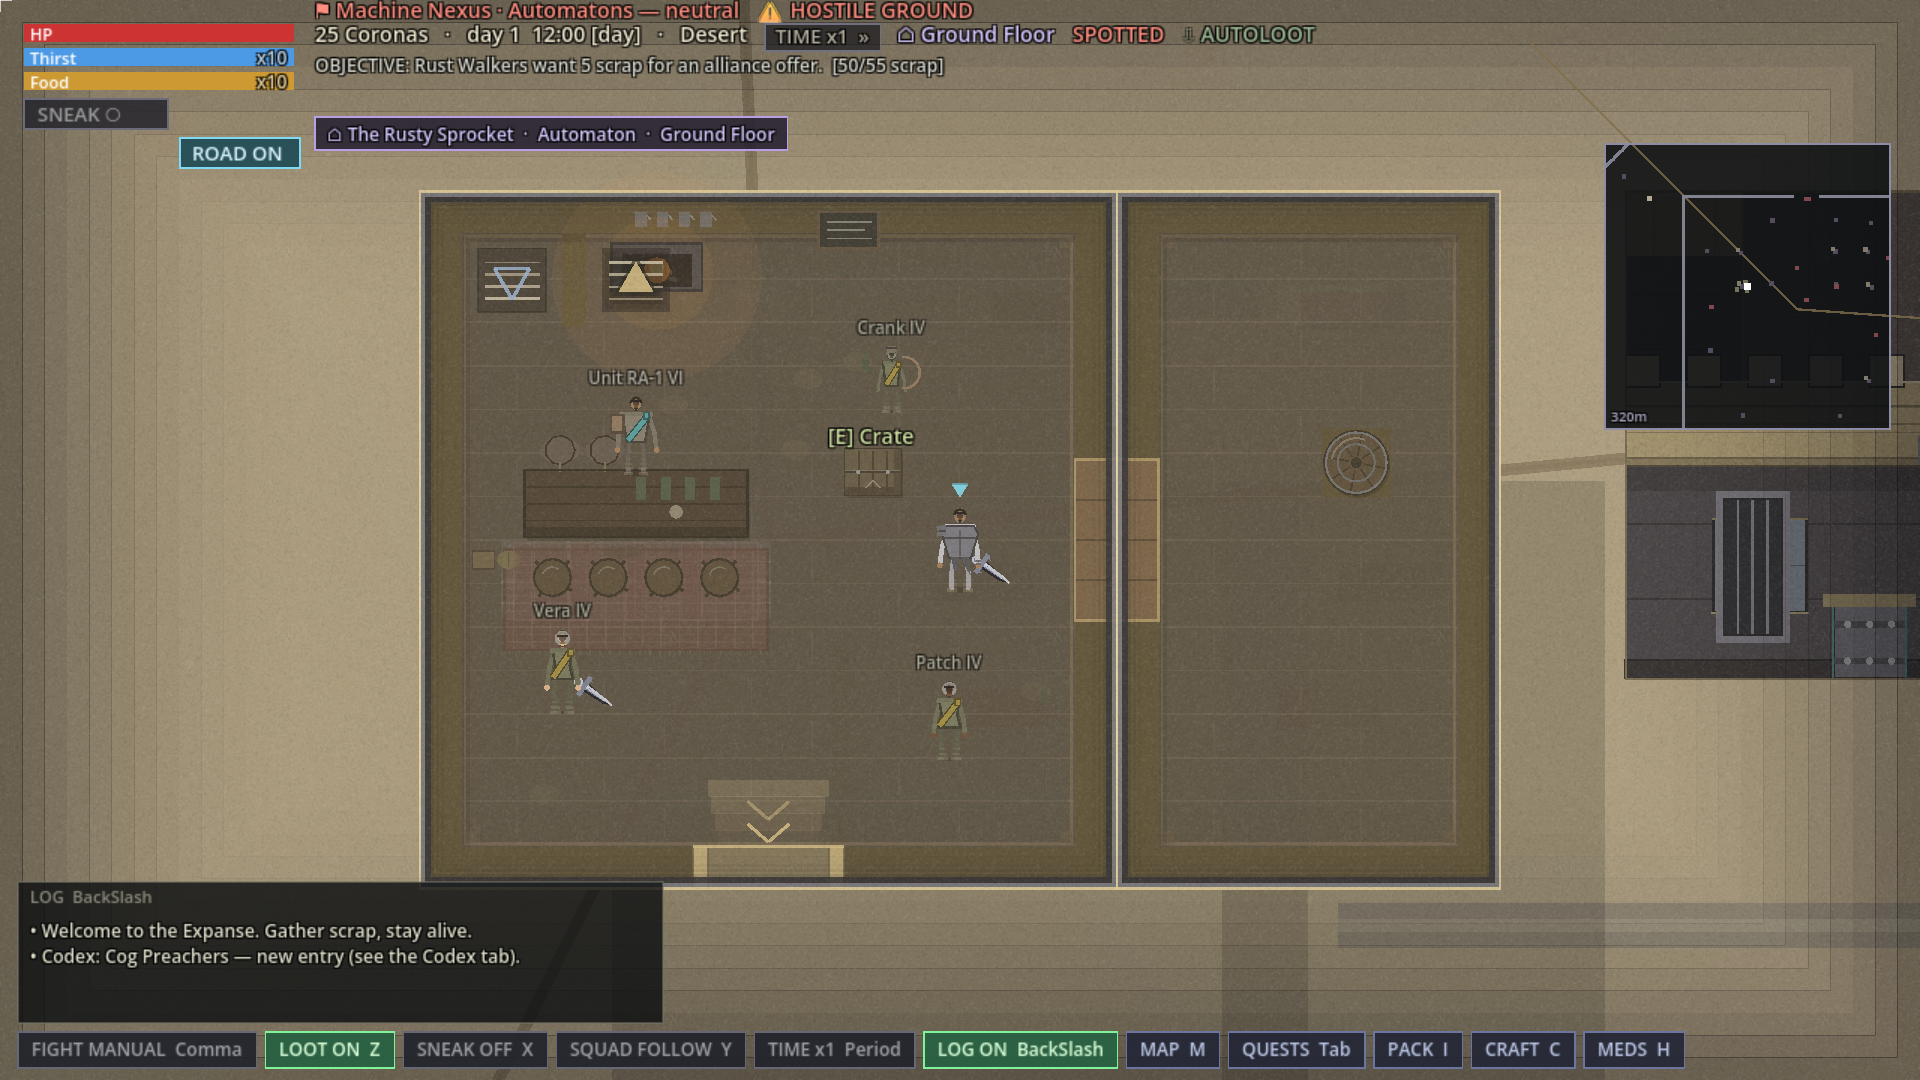
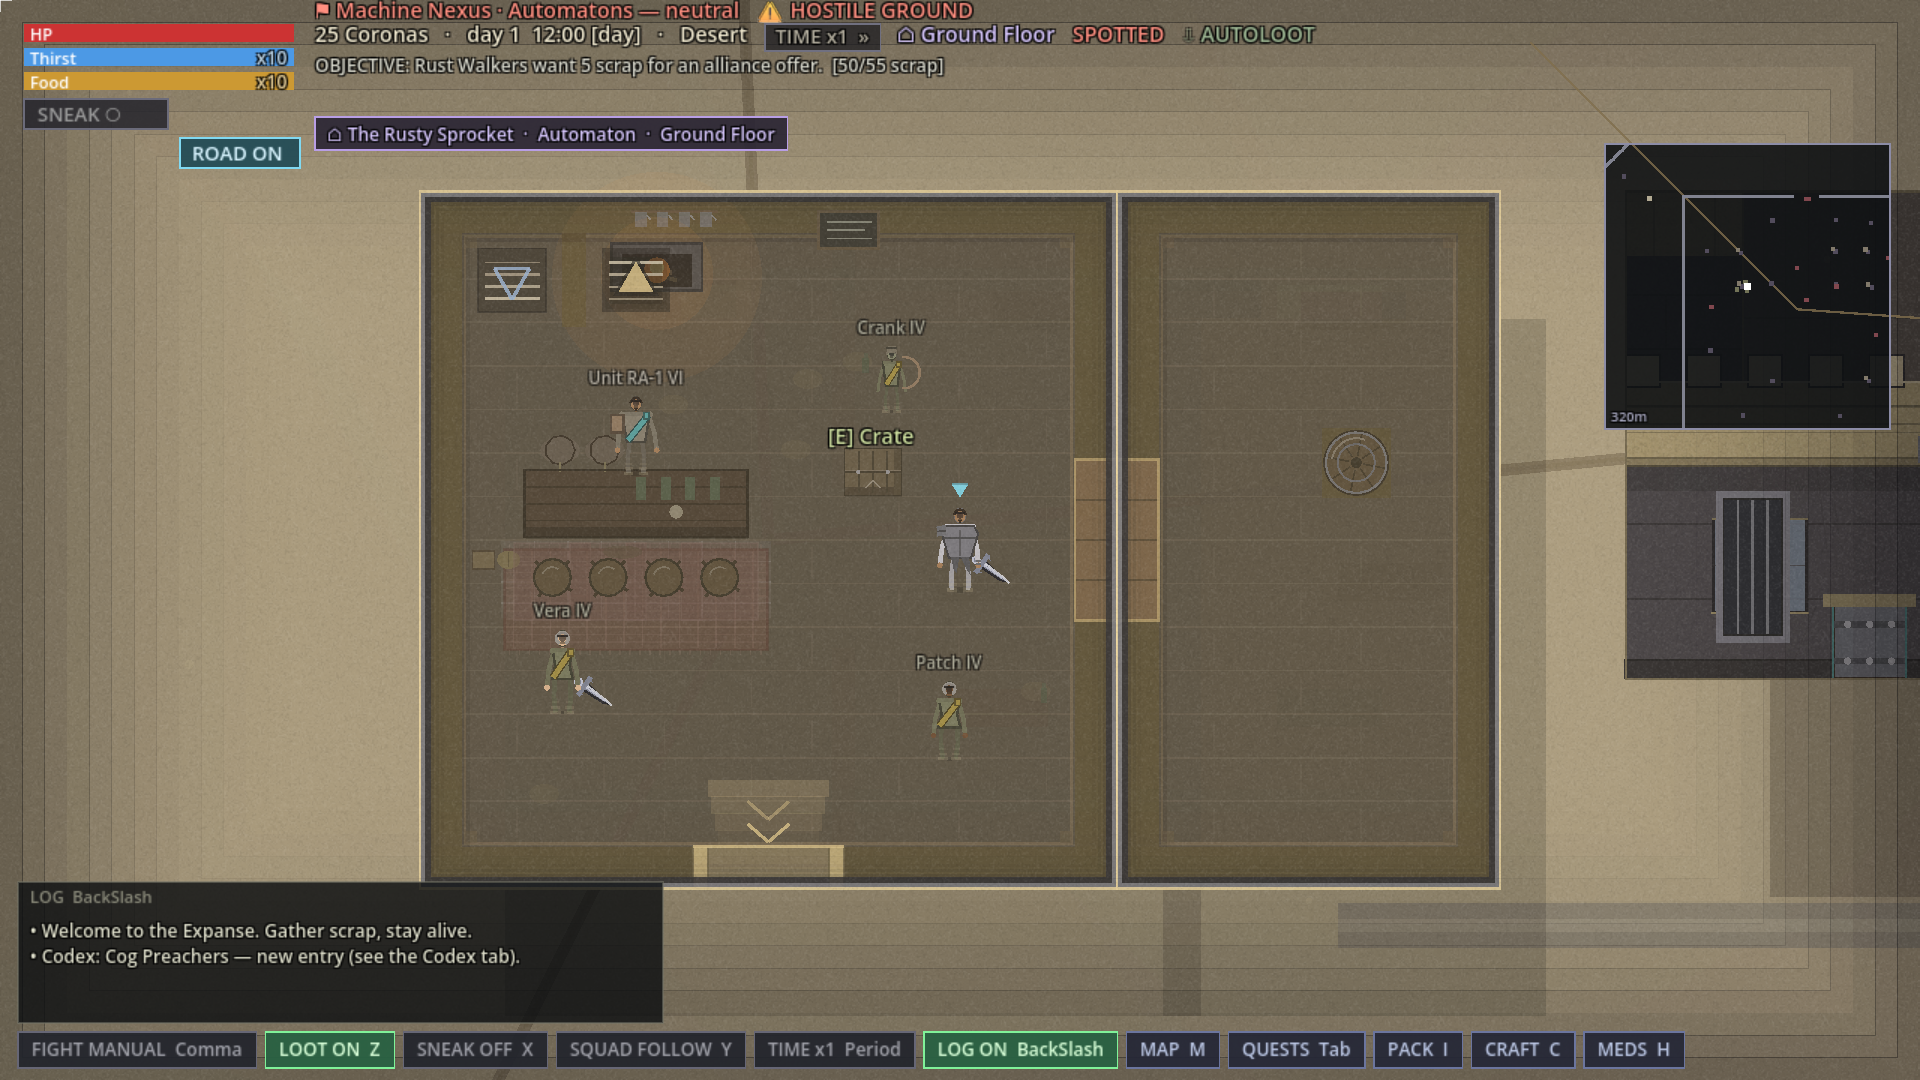
site: playtest-14f13 (19ad99f) — nine re-cut frames, ?v=18, notes section
Eleven screenshots taken from the commit and checked against its blobs.
Nine moved since 14f12 — SH1 (dc55cf7) re-cut them when shadow length
started tracking the hour — so the cache-buster goes to ?v=18; only 02
and 03 are byte-identical. Download block, stamp and sha256s move to
14f13, 14f12 drops to the history list, and notes.html gains the 14f13
section. Captions unchanged.

Claude-Session: https://claude.ai/code/session_018H1sn7GGjZwJmtfg9LhDNg

Changed region(s): [[0.7812, 0.275, 0.8438, 0.7944], [0.9062, 0.6111, 0.9688, 0.8556], [0.625, 0.9167, 0.6875, 1.0]]

diff --git a/index.html b/index.html
@@ -246,7 +246,7 @@
 <section class="wrap" aria-labelledby="shots-h">
   <h2 id="shots-h">Screenshots</h2>
   <div class="shot-frame">
-    <img id="shot" src="screenshots/01.png?v=17" width="1920" height="1080"
+    <img id="shot" src="screenshots/01.png?v=18" width="1920" height="1080"
          alt="Gameplay screenshot from Eclipsis: The Shattered Expanse">
     <button class="navbtn prev" type="button" id="prev" aria-label="Previous screenshot">&#8249;</button>
     <button class="navbtn next" type="button" id="next" aria-label="Next screenshot">&#8250;</button>
@@ -299,22 +299,22 @@
 <section class="wrap" aria-labelledby="dl-h">
   <h2 id="dl-h">Download the playtest build</h2>
   <div class="dl-grid">
-    <a class="btn" href="https://github.com/dlarseninclusive/eclipsis-playtest/releases/download/playtest-14f12/eclipsis_playtest-14f12_windows_x86_64.zip">
+    <a class="btn" href="https://github.com/dlarseninclusive/eclipsis-playtest/releases/download/playtest-14f13/eclipsis_playtest-14f13_windows_x86_64.zip">
       <span class="os">Windows</span>
       <span class="meta">64-bit &middot; .zip</span>
     </a>
-    <a class="btn" href="https://github.com/dlarseninclusive/eclipsis-playtest/releases/download/playtest-14f12/eclipsis_playtest-14f12_macos_universal.zip">
+    <a class="btn" href="https://github.com/dlarseninclusive/eclipsis-playtest/releases/download/playtest-14f13/eclipsis_playtest-14f13_macos_universal.zip">
       <span class="os">macOS</span>
       <span class="meta">Apple Silicon &amp; Intel &middot; .zip</span>
     </a>
-    <a class="btn" href="https://github.com/dlarseninclusive/eclipsis-playtest/releases/download/playtest-14f12/eclipsis_playtest-14f12_linux_x86_64.tar.gz">
+    <a class="btn" href="https://github.com/dlarseninclusive/eclipsis-playtest/releases/download/playtest-14f13/eclipsis_playtest-14f13_linux_x86_64.tar.gz">
       <span class="os">Linux</span>
       <span class="meta">x86_64 &middot; .tar.gz</span>
     </a>
   </div>
   <p style="margin:0 0 18px;font-size:1.05em"><strong>Field reports:</strong> <a href="playtests/playtest-14f11.html">Playtest 14f11</a> &middot; <a href="playtests/playtest-14f10.html">Playtest 14f10</a> &middot; <a href="playtests/playtest-14f9.html">Playtest 14f9</a> &middot; <a href="playtests/playtest-14f8.html">Playtest 14f8</a> &middot; <a href="playtests/playtest-14f1.html">Playtest 14f1</a> &middot; <a href="playtests/playtest-14.html">Playtest 14</a> &middot; <a href="playtests/playtest-13.html">Playtest 13</a> &middot; <a href="playtests/playtest-12.html">Playtest 12</a> &middot; <a href="playtests/playtest-11.html">Playtest 11</a><br>These are a playtester&rsquo;s field reports, written as a lab notebook for the team and published unedited.<br><strong>New tester?</strong> Start with <a href="playtest.html">the playtest procedure</a> &mdash; what to try and how to report. Full history of changes: <a href="notes.html">release notes</a>. Bugs and build alerts live on <a href="https://github.com/dlarseninclusive/eclipsis-playtest">the GitHub page</a> &mdash; <a href="https://github.com/dlarseninclusive/eclipsis-playtest/issues/new/choose">submit a ticket</a>.</p>
-  <p class="note"><strong>New in Playtest 14f12 &mdash; nobody walks through a wall:</strong> Playtest 14f11 put a face on the people; this one dresses them for it, stops them walking through walls, and opens the gaol from every door. <strong>Dave saw NPCs cross town walls, and it is fixed.</strong> The tester measured it first: thirteen bodies through a curtain wall in five game minutes. The movement code was cleared by count &mdash; no path ever walked a clear body into a wall. Bodies were being <em>placed</em> inside walls, and the anti-trap escape then walked them out through the far side. Every placement now resolves to clear ground and the escape walks toward the nearest way out, so patrols and travellers take the gate; the probe over 1500 ticks reads zero on every count. Not fixed here: three shopkeepers stand in a wall brick at world build because their building was raised overlapping the ring &mdash; they never move and never cross. <strong>Hoods belong to who wears them.</strong> The road hood is on the armorer&rsquo;s shelf for 12 credits, and buying one puts your own face under it. Scouts, outriders, the Eclipse Choir, the Penumbra and the road bandits wear hoods while their champions and heavies keep the steel &mdash; about one body in five, with the two cult capitals hooded to a man on purpose. Nineteen leaders have nineteen heads: bare-faced where you are meant to know them, hooded where you are not, crowned visors where the office is the point. <strong>The gaol opens from every door.</strong> Captured on the spot, delivered by a slaver, or starting in a cell all land you in a dressed gaol &mdash; barred cells, a rack under a lamp, the bench, two wardens, another prisoner. The &ldquo;bare gaol&rdquo; reported in 14f10 was a test staging its own camera and does not reproduce in play. There is a new start, <strong>Sentenced</strong>: a Corona Wardens cell, an eight-day term, a ransom of 32 credits, eighteen coins and one bandage. The custody card gets out of your way on any movement or answer key, and <kbd>Q</kbd> brings it back. The sign tells you how to say it: <code>Ashen Camp Gaol (&ldquo;jayl&rdquo;)</code>. <strong>Underneath</strong>, a body with no name was getting the same word every day as every other nameless body; the word an NPC calls you now comes off the same identity the crowd already uses for its face. <strong>Known and not fixed here:</strong> on the Sentenced start the Wardens levy their territory toll on you in their own cell; the floor row reads &ldquo;Ground Floor&rdquo; inside a cell; a slave collar files into the helm slot; long speaker names clip on the talk card. <strong>Your playtest 14 through 14f11 saves load</strong>; nothing here changes the shape of a save. <strong>Coming next:</strong> shadows that lengthen with the sun.</p>
-  <p class="version">Build <code>playtest-14f12 &middot; 90c3ea8</code> &middot; 2026-09-08 &middot; Windows, macOS &amp; Linux &middot; single executable, no installer, no launcher, no account &middot; <a href="notes.html">Full release notes</a><br>That same string is printed on the title screen and along the bottom of the game screen &mdash; quote it in a bug report.<br>sha256 &middot; windows.zip <code>cc02d6941c025e01687079ed85e3d699c4559564078fe34eb298ea6c6fcdbd85</code><br>&middot; macos.zip <code>64db042f9b1210c8c98e676bb51e77354d7dcb8a02680df4f0e9df8d465cef51</code><br>&middot; linux.tar.gz <code>8513e2dbc63ff63046c5d01020918ba1636b7ec1546d1971825f93b53e6bff5d</code></p>
+  <p class="note"><strong>New in Playtest 14f13 &mdash; the shadow follows the sun:</strong> A quiet cut. <strong>Every shadow&rsquo;s length now tracks the hour</strong> &mdash; longest at dawn and dusk, shortest at one o&rsquo;clock, with the direction unchanged. The length is capped by decision: a shadow must never come away from the building that throws it, so the largest drums sit on the cap in the morning rather than reaching past their own walls. <strong>Two gaol fixes:</strong> a prisoner is no longer tolled for standing on their captors&rsquo; ground &mdash; the Sentenced start keeps its eighteen coins, which are the ransom fund &mdash; and the floor row inside a cell now names the cell instead of reading &ldquo;Ground Floor&rdquo;. <strong>And a perf guard, with nothing visible changed:</strong> the suite pins the frame budget as a ratio, so a graphics pass cannot spend frames unnoticed. <strong>Known and not fixed here:</strong> a faction duel next to a wall is proven in the suite but not yet seen on a build; a slave collar files into the helm slot; long speaker names clip on the talk card; round-building collision is still rectangular; the top rung stays at x4 by decision. <strong>Your playtest 14 through 14f12 saves load</strong>; nothing here changes the shape of a save.</p>
+  <p class="version">Build <code>playtest-14f13 &middot; 19ad99f</code> &middot; 2026-09-09 &middot; Windows, macOS &amp; Linux &middot; single executable, no installer, no launcher, no account &middot; <a href="notes.html">Full release notes</a><br>That same string is printed on the title screen and along the bottom of the game screen &mdash; quote it in a bug report.<br>sha256 &middot; windows.zip <code>fbcbb3dd7c0f68d5d32d6b29539e8216a4803c0524fed36d828b5ff40cf4cc05</code><br>&middot; macos.zip <code>910fe6c27d5a65887eed8b723fa97f36dc96dd4c2e2d0aa5de4c8acd4e1e92d3</code><br>&middot; linux.tar.gz <code>23342b0186df475cc82cf2ad0df329610c712cb6315517d67fe3336add0b19c7</code></p>
 
   <div class="howto">
     <div>
@@ -361,6 +361,7 @@
 <section class="wrap" aria-labelledby="hist-h">
   <h2 id="hist-h">Playtest history</h2>
   <dl class="reqs" style="margin-top:0">
+    <dt><a href="https://github.com/dlarseninclusive/eclipsis-playtest/releases/tag/playtest-14f13">Playtest 14f13</a></dt><dd>2026-09-09 &mdash; The shadow follows the sun: shadow length tracks the hour and is capped so it never leaves its building, a prisoner is no longer tolled in their captors&rsquo; cell, and the suite pins the frame budget.</dd>
     <dt><a href="https://github.com/dlarseninclusive/eclipsis-playtest/releases/tag/playtest-14f12">Playtest 14f12</a></dt><dd>2026-09-08 &mdash; Nobody walks through a wall: bodies are no longer placed inside walls and the escape takes the gate, hoods belong to who wears them, and the gaol opens from every door with a new Sentenced start.</dd>
     <dt><a href="https://github.com/dlarseninclusive/eclipsis-playtest/releases/tag/playtest-14f11">Playtest 14f11</a></dt><dd>2026-09-08 &mdash; A face under the hood: what you wear on your head decides whether you are shown or hooded, a portrait on the talk card, the quotation mark that was eating the local model&rsquo;s lines, 171 written lines, and an HUD you can hide.</dd>
     <dt><a href="https://github.com/dlarseninclusive/eclipsis-playtest/releases/tag/playtest-14f10">Playtest 14f10</a></dt><dd>2026-09-08 &mdash; A crate reads as a crate: one prop table behind every object the game places, rooms furnished and littered for their trade, counter captions gone, and shadows the shape of the thing.</dd>
@@ -411,17 +412,17 @@
 <script>
 (function(){
   var shots = [
-    ["screenshots/01.png?v=17","A town at noon: each building its own design — bar, smith, bank, palace — the round ones on paved yards, three kinds of house on the street."],
-    ["screenshots/02.png?v=17","The same streets deep into the night. Lamps down the main road, lit windows, and a crowd you can only half see — night is genuinely dark, and what you can see depends on what you are carrying."],
-    ["screenshots/03.png?v=17","A dust storm on the highway through the Corona’s Grave highlands: the tint on everything, the haze banked across it and the wind-blown streaks. The travellers strung out along the road were already walking it — and an Architect ruin has just been found and marked."],
-    ["screenshots/04.png?v=17","Inside an Automaton taproom in Machine Nexus — the keeper at his counter, three drinkers, stools, crates and shelves, and the stairwell in the corner that runs up to the roof and down to the cellar. The roof simply fades as you step under it — no loading screen, no separate map."],
-    ["screenshots/05.png?v=17","A street brawl in Rust Haven, mid-swing: damage in the air, blood and dropped packs on the ground, three Dust Reavers still on their feet — and the log keeping score of the other three: “You kill a Dust Reaver. Their people won’t forget.”"],
-    ["screenshots/06.png?v=17","The whole Expanse laid flat — biome ground, faction territories in their own colours, their named capitals, the named lands between them, and a compass rose."],
-    ["screenshots/07.png?v=17","Six days of world, written down: a famine in the Cinder Dominion, a war between the Blacklight Syndicate and the Automatons, coffers, border clashes, the world’s mood — and “Frost on the salt flats at noon. The old hands have stopped calling it weather.”"]
-    ["screenshots/08.png?v=17","Roof off a bar: the counter, the kegs behind it, stools, a lit brazier, and the keeper who sells the drink and hires out the room."],
-    ["screenshots/09.png?v=17","Where the Slave start wakes you: the yard's working end, shackled labourers under an overseer, a work station, and the barred block you sleep in."],
-    ["screenshots/10.png?v=17","A guild hall built on a drum, standing in its own paved yard. Every building kind in the Expanse has one design; the round ones are built from circles."],
-    ["screenshots/11.png?v=17","A walled town, entered through its gate. Guards at the mouth, the wall running both ways, and a search or a toll depending on your standing."],
+    ["screenshots/01.png?v=18","A town at noon: each building its own design — bar, smith, bank, palace — the round ones on paved yards, three kinds of house on the street."],
+    ["screenshots/02.png?v=18","The same streets deep into the night. Lamps down the main road, lit windows, and a crowd you can only half see — night is genuinely dark, and what you can see depends on what you are carrying."],
+    ["screenshots/03.png?v=18","A dust storm on the highway through the Corona’s Grave highlands: the tint on everything, the haze banked across it and the wind-blown streaks. The travellers strung out along the road were already walking it — and an Architect ruin has just been found and marked."],
+    ["screenshots/04.png?v=18","Inside an Automaton taproom in Machine Nexus — the keeper at his counter, three drinkers, stools, crates and shelves, and the stairwell in the corner that runs up to the roof and down to the cellar. The roof simply fades as you step under it — no loading screen, no separate map."],
+    ["screenshots/05.png?v=18","A street brawl in Rust Haven, mid-swing: damage in the air, blood and dropped packs on the ground, three Dust Reavers still on their feet — and the log keeping score of the other three: “You kill a Dust Reaver. Their people won’t forget.”"],
+    ["screenshots/06.png?v=18","The whole Expanse laid flat — biome ground, faction territories in their own colours, their named capitals, the named lands between them, and a compass rose."],
+    ["screenshots/07.png?v=18","Six days of world, written down: a famine in the Cinder Dominion, a war between the Blacklight Syndicate and the Automatons, coffers, border clashes, the world’s mood — and “Frost on the salt flats at noon. The old hands have stopped calling it weather.”"]
+    ["screenshots/08.png?v=18","Roof off a bar: the counter, the kegs behind it, stools, a lit brazier, and the keeper who sells the drink and hires out the room."],
+    ["screenshots/09.png?v=18","Where the Slave start wakes you: the yard's working end, shackled labourers under an overseer, a work station, and the barred block you sleep in."],
+    ["screenshots/10.png?v=18","A guild hall built on a drum, standing in its own paved yard. Every building kind in the Expanse has one design; the round ones are built from circles."],
+    ["screenshots/11.png?v=18","A walled town, entered through its gate. Guards at the mouth, the wall running both ways, and a search or a toll depending on your standing."],
   ];
   var img = document.getElementById('shot'),
       cap = document.getElementById('shot-cap'),

diff --git a/notes.html b/notes.html
@@ -257,7 +257,7 @@
     <h1 class="title" style="font-size:clamp(30px,6vw,58px)">RELEASE NOTES</h1>
     <p class="subtitle">Eclipsis &middot; The Shattered Expanse</p>
     <div class="rule-orn"></div>
-    <p class="kicker">Newest first &middot; Playtest 14f12 back to Playtest 1</p>
+    <p class="kicker">Newest first &middot; Playtest 14f13 back to Playtest 1</p>
   </div>
 </header>
 
@@ -266,6 +266,41 @@
 <p class="backlink" style="padding-top:26px"><a href="./">&#8249; Back to downloads</a></p>
 
 <div class="col">
+<section class="rel" aria-labelledby="pt14f13">
+  <h2 class="rel-h" id="pt14f13">Playtest 14f13 &mdash; the shadow follows the sun</h2>
+  <p class="rel-date">Released 2026-09-09</p>
+  <p class="rel-lede">A thirteenth follow-up to playtest 14. A quiet cut: the light behaves, the gaol stops charging you rent, and the suite grows a guard against a graphics pass spending frames unnoticed.</p>
+
+  <h3 class="sub">Shadows follow the sun</h3>
+  <ul class="rn">
+    <li><strong>Every shadow&rsquo;s length now tracks the hour.</strong> Longest at dawn and dusk, shortest at one o&rsquo;clock. The direction is unchanged.</li>
+    <li><strong>The length is capped, by decision.</strong> Dave ruled that a shadow must never come away from the building that throws it, so the largest drums sit on the cap in the morning rather than reaching past their own walls.</li>
+  </ul>
+
+  <h3 class="sub">The gaol, two fixes</h3>
+  <ul class="rn">
+    <li><strong>A prisoner is no longer tolled for standing on their captors&rsquo; ground.</strong> The Sentenced start keeps its eighteen coins, which are the ransom fund.</li>
+    <li><strong>The floor row inside a cell names the cell</strong> instead of reading &ldquo;Ground Floor&rdquo;.</li>
+  </ul>
+
+  <h3 class="sub">A perf guard</h3>
+  <ul class="rn">
+    <li><strong>Nothing visible changed.</strong> The suite now pins the frame budget as a ratio, so a graphics pass cannot spend frames unnoticed.</li>
+  </ul>
+
+  <h3 class="sub">Known, and not fixed here</h3>
+  <ul class="rn">
+    <li><strong>A faction duel next to a wall is proven in the suite but not yet seen on a build.</strong></li>
+    <li><strong>A slave collar files into the helm slot</strong> on the body. Pre-existing.</li>
+    <li><strong>Long speaker names clip on the name bar</strong> of the talk card.</li>
+    <li>Round-building collision is still rectangular.</li>
+    <li><strong>The top speed rung stays at x4</strong>, by decision.</li>
+  </ul>
+
+  <p class="rel-lede"><strong>Your playtest 14 through 14f12 saves load.</strong> Nothing here changes the shape of a save. <strong>Coming next:</strong> nothing promised; the window is quiet.</p>
+
+  <p class="rel-date">Build <code>playtest-14f13 &middot; 19ad99f</code> &middot; <a href="https://github.com/dlarseninclusive/eclipsis-playtest/releases/tag/playtest-14f13">release and downloads</a><br>sha256 &middot; windows.zip <code>fbcbb3dd7c0f68d5d32d6b29539e8216a4803c0524fed36d828b5ff40cf4cc05</code><br>&middot; macos.zip <code>910fe6c27d5a65887eed8b723fa97f36dc96dd4c2e2d0aa5de4c8acd4e1e92d3</code><br>&middot; linux.tar.gz <code>23342b0186df475cc82cf2ad0df329610c712cb6315517d67fe3336add0b19c7</code></p>
+</section>
 <section class="rel" aria-labelledby="pt14f12">
   <h2 class="rel-h" id="pt14f12">Playtest 14f12 &mdash; nobody walks through a wall</h2>
   <p class="rel-date">Released 2026-09-08</p>
